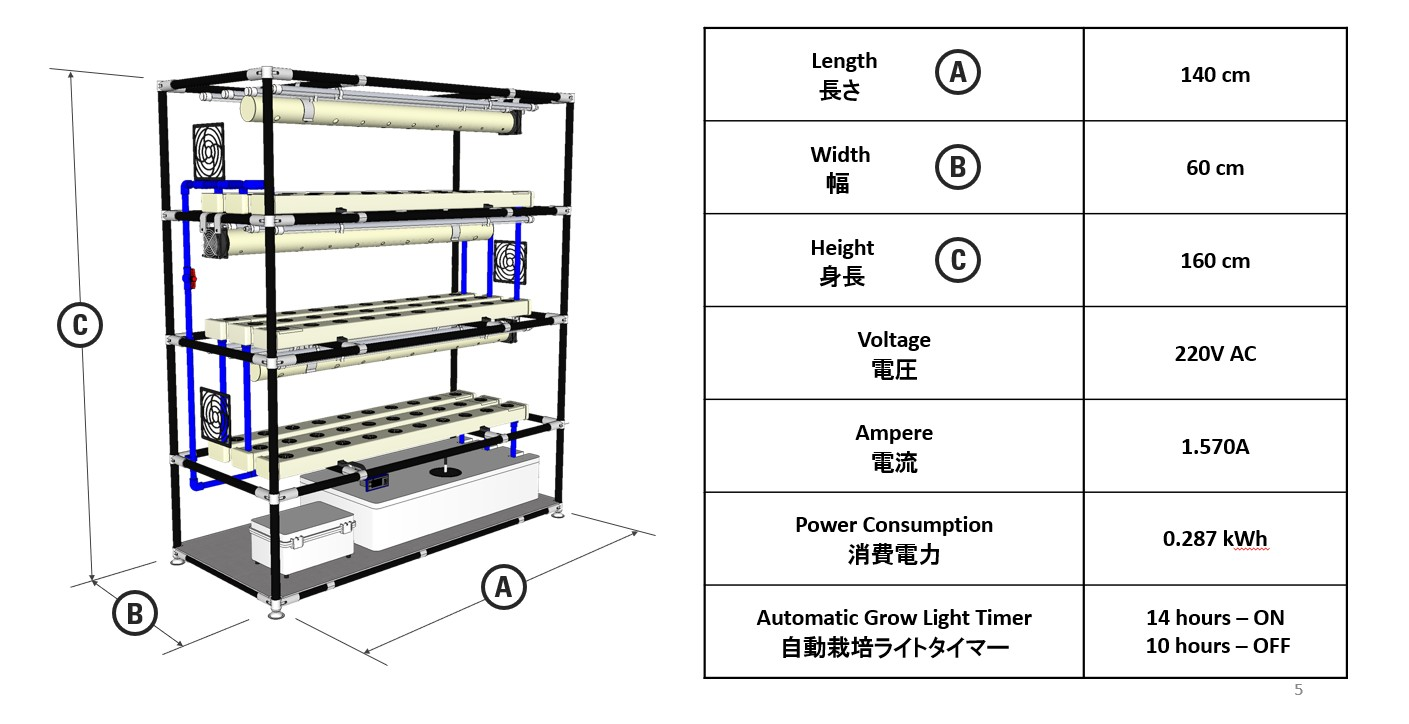
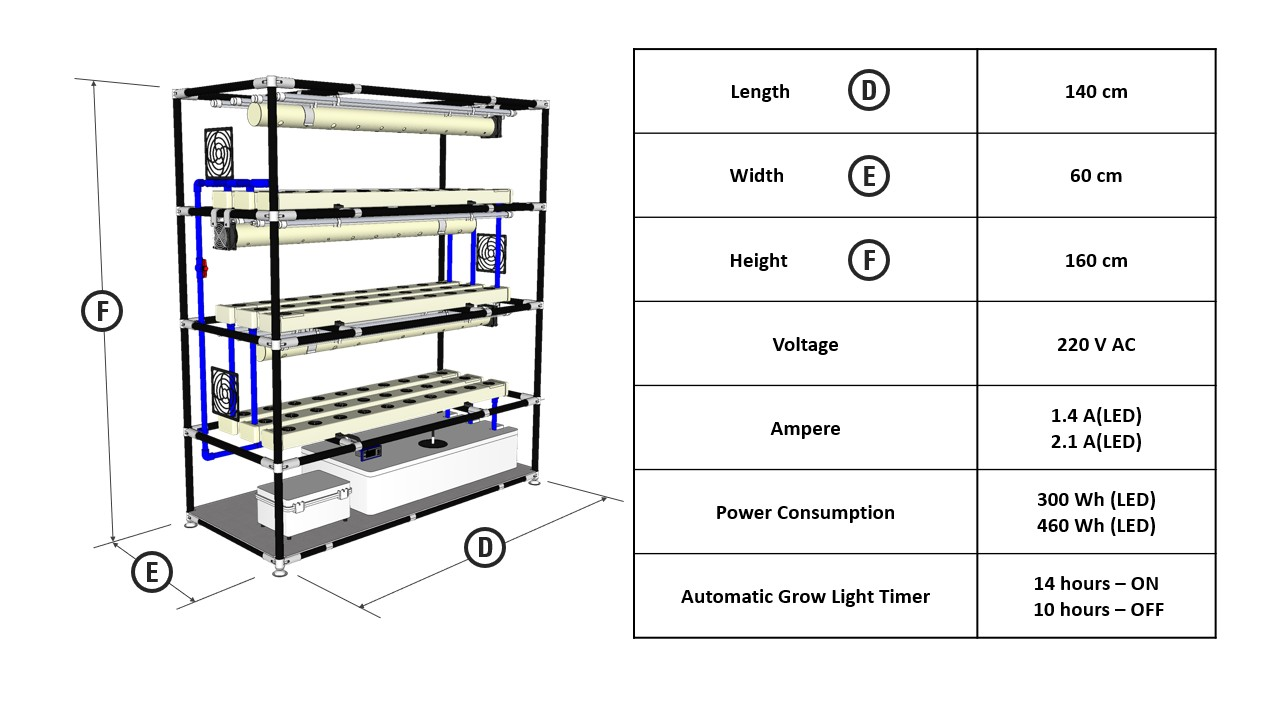
jlkjkllklklk

diff --git a/index.html b/index.html
@@ -16,7 +16,7 @@
         <div class="container nav-container">
             <a href="#" class="logo">
                 <img src="Images/logo.png" alt="">
-                <span>San</span>Hydro-App
+                <span>SDP</span>Hydroponics 
             </a>
             
             <div class="mobile-menu-btn">
@@ -51,7 +51,7 @@
                 <h1 class="language-text" data-en="Perfect solution for modern Home Gardening" data-jp="安全で健康的な環境で、新鮮で化学物質不使用の野菜を育てる楽しみを！">
                     安全で健康的な環境で、新鮮で化学物質不使用の野菜を育てる楽しみを！
                 </h1>
-                <p>* For the Philippine market</p>
+                <p style="font-size: 1.5rem;">* For the Philippine market</p>
                 <p class="language-text" data-en="Through our hydroponic appliance, we deliver safe and reliable vegetables, along with the joy of experiencing the growing process." data-jp="私たちの水耕栽培アプライアンスを通じて、安全で信頼できる野菜と、成長過程を体験する喜びをお届けします。">
                     私たちの水耕栽培アプライアンスを通じて、安全で信頼できる野菜と、成長過程を体験する喜びをお届けします。
                 </p>
@@ -76,15 +76,15 @@
                 <img src="Images/AboutImage.png" alt="水耕栽培" >
             </div>
             <div class="about-content">
-                  <p style="margin: 0 auto;"> <a href="#" class="logo" style="color: #222;">
+                  <p style="margin: 0 auto;"> <a href="#" class="logo" style="color: #08c0bd;">
                             <img src="Images/logo.png" alt="">
-                            <span>San</span>Hydro-App
+                            <span>SDP</span>Hydroponics
                         </a></p>
                 <h2 ><span class="language-text " data-en=" Hydroponic cultivation" data-jp="San Hydroアプライアンスについて">San Hydroアプライアンスについて</span></h2>
                 <p class="language-text " data-en="Hydroponic cultivation is a method of growing plants without using soil, and various features are required to promote efficient growth. There are necessary features for a hydroponic cultivation device to support the essential elements for growing plants to be healthy. Different variety of vegetables can be planted on the hydroponic chambers." data-jp="水耕栽培は土を使わずに植物を育てる方法で、効率的な成長を促進するためにさまざまな機能が必要です。植物が健康に育つために必要な要素をサポートする水耕栽培装置には、必要な機能があります。水耕栽培チャンバーにはさまざまな種類の野菜を植えることができます。">
                     水耕栽培は土を使わずに植物を育てる方法で、効率的な成長を促進するためにさまざまな機能が必要です。植物が健康に育つために必要な要素をサポートする水耕栽培装置には、必要な機能があります。水耕栽培チャンバーにはさまざまな種類の野菜を植えることができます。
                 </p>
-                <p style="margin-top: 10px;">* For the Philippine market</p>
+                <p style="margin-top: 10px; font-size: 1.2rem;">* For the Philippine market</p>
              <hr style="margin: 1em 0; border: 1px solid #e2e8f0;">
                 <i class="fa-solid fa-leaf" id="leaf-right"></i>
                 <i class="fa-solid fa-leaf" id="leaf-left" ></i>
@@ -117,9 +117,9 @@
     <div class="Chambers" >
         <div class="container">
             <div class="headerSub">
-                 <p style="margin: 0 auto;"> <a href="#" class="logo" style="color: #222;">
+                   <p style="margin: 0 auto;"> <a href="#" class="logo" style="color: #08c0bd;">
                             <img src="Images/logo.png" alt="">
-                            <span>San</span>Hydro-App
+                            <span>SDP</span>Hydroponics
                         </a></p>
                  <h2 class="HydroTitle"><span class="language-text" data-en="Design of the Chamber" data-jp="ビデオプレゼンテーション">Design of the Chamber</span></h2>          
                  <div class="lines"></div>
@@ -127,7 +127,7 @@
 
 
 
-            <img src="Images/Chamber.png"  alt="チャンバーデザイン" loading="lazy" class="chamberspecs" />
+            <img src="Images/Chamber.jpg"  alt="チャンバーデザイン" loading="lazy" class="chamberspecs" />
         </div>
     </div>
 
@@ -137,9 +137,9 @@
         <img src="Images/green-tea.png" alt="" id="leafimage" loading="lazy">
         <div class="container">
              <div class="headerSub">
-                 <p style="margin: 0 auto;"> <a href="#" class="logo" style="color: #222;">
+                   <p style="margin: 0 auto;"> <a href="#" class="logo" style="color: #08c0bd;">
                             <img src="Images/logo.png" alt="">
-                            <span>San</span>Hydro-App
+                            <span>San</span>Hydroponics
                         </a></p>
                  <h2 class="HydroTitle"><span class="language-text" data-en="Most features" data-jp="ビデオプレゼンテーション">Most features</span></h2>
                 
@@ -208,9 +208,9 @@
         <div class="container">
           
            <div class="headerSub">
-                 <p style="margin: 0 auto;"> <a href="#" class="logo" style="color: #222;">
+                   <p style="margin: 0 auto;"> <a href="#" class="logo" style="color: #08c0bd;">
                             <img src="Images/logo.png" alt="">
-                            <span>San</span>Hydro-App
+                            <span>SDP</span>Hydroponics
                         </a></p>
                  <h2 class="HydroTitle"><span class="language-text" data-en="Product Specification" data-jp="製品仕様">Product Specification</span></h2>          
                  <div class="lines"></div>
@@ -282,9 +282,9 @@
         <div class="container">
           
             <div class="headerSub">
-                 <p style="margin: 0 auto;"> <a href="#" class="logo" style="color: #222;">
+                <p style="margin: 0 auto;"> <a href="#" class="logo" style="color: #08c0bd;">
                             <img src="Images/logo.png" alt="">
-                            <span>San</span>Hydro-App
+                            <span>SDP</span>Hydroponics
                         </a></p>
                 
                 <div style="margin-bottom: 1em;" class="section-subtitle language-text" data-en="Watch our product demonstration video to see San Hydro-App in action" data-jp="San Hydro-Appの動作をご覧いただく製品デモビデオをご覧ください">
@@ -320,9 +320,9 @@
     <section id="faq" class="faq" style="background-color: #f0f7f4">
         <div class="container">
             <div class="headerSub" >
-                 <p style="margin: 0 auto;"> <a href="#" class="logo" style="color: #222;">
+                  <p style="margin: 0 auto;"> <a href="#" class="logo" style="color: #08c0bd;">
                             <img src="Images/logo.png" alt="">
-                            <span>San</span>Hydro-App
+                            <span>SDP</span>Hydroponics
                         </a></p>
                  <h2 class="HydroTitle"><span class="language-text" data-en="Frequently Asked Questions" data-jp="よくある質問">Frequently Asked Questions</span></h2>
                 
@@ -430,9 +430,9 @@
             <div class="contact-info">
                 <div class="contacts_information">
                 <div class="" style="text-align: left;  ">
-                   <p style="margin: 0 auto;"> <a href="#" class="logo" style="color: #222;">
+                   <p style="margin: 0 auto;"> <a href="#" class="logo" style="color: #08c0bd;">
                             <img src="Images/logo.png" alt="">
-                            <span>San</span>Hydro-App
+                            <span>SDP</span>Hydroponics
                         </a></p>
                  <h2 class="HydroTitle"><span class="language-text" data-en="Contact us " data-jp="お問い合わせ">お問い合わせ</span></h2>
                  <p style="margin-bottom: 1em; font-size: 1.3rem;">We love to hear from you</p>
@@ -442,8 +442,7 @@
                     <div>
                        
                         <span> <i class="fa-solid fa-envelope"></i>  Email Address :</span>
-                        <p><a style="color:#055a59;" class="link-hover"  href="mailto:michael.metran@sanyodenki.com">michael.metran@sanyodenki.com</a> or</p> 
-                        <p><a  style="color:#055a59;" class="link-hover"  href="mailto:pamela.david@sanyodenki.com">pamela.david@sanyodenki.com</a></p>
+                        <p><a style="color:#055a59;" class="link-hover"  href="hydroponics-sdp.cs@sanyodenki.com">hydroponics-sdp.cs@sanyodenki.com</a> </p> 
                     </div>
                     <div>
                         <span> <i class="fa-solid fa-phone-volume"></i>   Contact No :</span>
@@ -473,7 +472,7 @@
        
     </section>
 
-    <section class="QR_page" >
+    <!-- <section class="QR_page" >
          <img src="Images/Abstract.jpg" alt="" id="abstractimage" loading="lazy">
              <div class="container QR_container">
                 <div class="QR_content">
@@ -491,14 +490,14 @@
                 </div>
                 
              </div>
-    </section>
+    </section> -->
 
        <!-- Footer  -->
     <footer id="contact">
         <div class="container">
             <div class="footer-grid">
                 <div class="footer-column">
-                    <h3 class="language-text" data-en="About San Hydro-App" data-jp="San Hydro-Appについて">San Hydro-Appについて</h3>
+                    <h3 class="language-text" data-en="About SDP Hydroponics" data-jp="San Hydro-Appについて">San Hydro-Appについて</h3>
                     <p style="color: #cbd5e1; margin-bottom: 20px;" class="language-text" data-en="Through our hydroponic appliance, we deliver safe and reliable vegetables, along with the joy of experiencing the growing process." data-jp="私たちの水耕栽培アプライアンスを通じて、安全で信頼できる野菜と、成長過程を体験する喜びをお届けします。">
                         私たちの水耕栽培アプライアンスを通じて、安全で信頼できる野菜と、成長過程を体験する喜びをお届けします。
                     </p>
@@ -590,14 +589,14 @@
         });
 
        
-        const nav = document.querySelector("header");
-        window.addEventListener("scroll", () => {
-            if (window.scrollY >= 100) {
-                nav.classList.add("active_nav");
-            } else {
-                nav.classList.remove("active_nav");
-            }
-        });
+        // const nav = document.querySelector("header");
+        // window.addEventListener("scroll", () => {
+        //     if (window.scrollY >= 100) {
+        //         nav.classList.add("active_nav");
+        //     } else {
+        //         nav.classList.remove("active_nav");
+        //     }
+        // });
 
      
         document.querySelectorAll('.faq-question').forEach(question => {

diff --git a/design.css b/design.css
@@ -106,7 +106,8 @@ header {
     top: 0;
     z-index: 1000;
     transition: var(--transition);
-    box-shadow: 0 2px 20px rgba(0, 0, 0, 0.1);
+    background-color: #fff;
+    box-shadow: 0 2px 20px rgba(68, 65, 65, 0.1);
 }
 
 .nav-container {
@@ -121,13 +122,14 @@ header {
     gap: 10px;
     font-size: clamp(1rem, 3vw, 1.25rem);
     font-weight: 700;
-    color: #fff;
+    color: #08c0bd;
+
     text-decoration: none;
     z-index: 1001;
 }
 
 .logo span{
-    color: #04928f;
+    color: rgb(72, 71, 66);
 }
 
 .logo img {
@@ -143,7 +145,7 @@ header {
 
 .nav-links a {
     text-decoration: none;
-    color: #fff;
+    color: #222;
     font-weight: 500;
     transition: var(--transition);
     padding: 8px 0;
